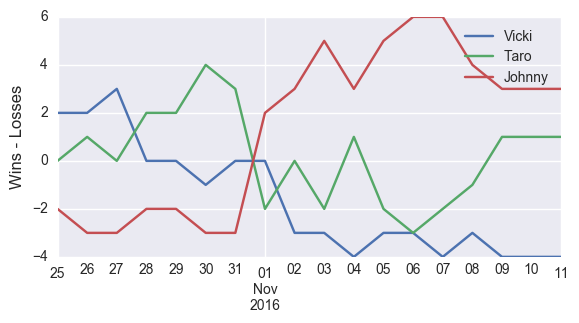
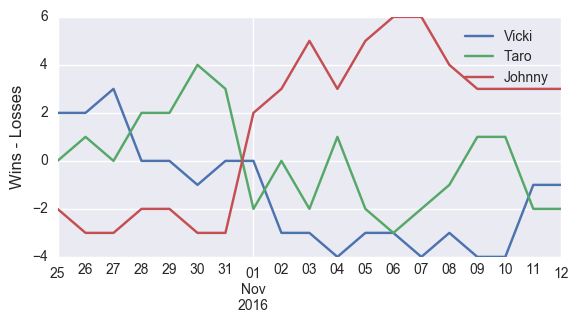
update 11/12

diff --git a/index.html b/index.html
@@ -35,7 +35,7 @@
 <a id="the-bet-is-on" class="anchor" href="#the-bet-is-on" aria-hidden="true"><span aria-hidden="true" class="octicon octicon-link"></span></a>The bet is on.</h1>
 
 <h1>
-<a id="current-winner-of-2016-17-season" class="anchor" href="#current-winner-of-2016-17-season" aria-hidden="true"><span aria-hidden="true" class="octicon octicon-link"></span></a>Current winner of 2016-17 Season (as of 11/11/2016):</h1>
+<a id="current-winner-of-2016-17-season" class="anchor" href="#current-winner-of-2016-17-season" aria-hidden="true"><span aria-hidden="true" class="octicon octicon-link"></span></a>Current winner of 2016-17 Season (as of 11/12/2016):</h1>
 
 <h2>
 <a id="none" class="anchor" href="#none" aria-hidden="true"><span aria-hidden="true" class="octicon octicon-link"></span></a><strong>Johnny</strong>
@@ -44,23 +44,23 @@
 <h2>
 <a id="johnny" class="anchor" href="#johnny" aria-hidden="true"><span aria-hidden="true" class="octicon octicon-link"></span></a>Johnny</h2>
 
-<p>Wins: 42<br>
-Losses: 39<br>
-Remaining wins available: 627</p>
+<p>Wins: 44<br>
+Losses: 41<br>
+Remaining wins available: 624</p>
 
 <h2>
 <a id="taro" class="anchor" href="#taro" aria-hidden="true"><span aria-hidden="true" class="octicon octicon-link"></span></a>Taro</h2>
 
-<p>Wins: 40<br>
-Losses: 39<br>
-Remaining wins available: 627</p>
+<p>Wins: 42<br>
+Losses: 44<br>
+Remaining wins available: 621</p>
 
 <h2>
 <a id="vicki" class="anchor" href="#vicki" aria-hidden="true"><span aria-hidden="true" class="octicon octicon-link"></span></a>Vicki</h2>
 
-<p>Wins: 38<br>
-Losses: 42<br>
-Remaining wins available: 630</p>
+<p>Wins: 42<br>
+Losses: 43<br>
+Remaining wins available: 626</p>
 
 <img src='pythoncode/win_percent.png' alt='Winning Percentage Over Time'>
 <h1>
